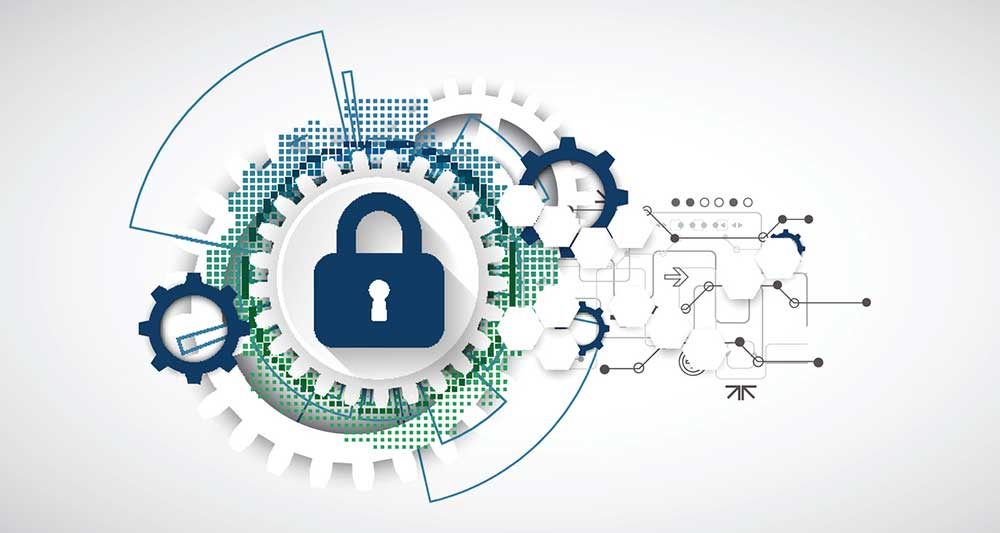
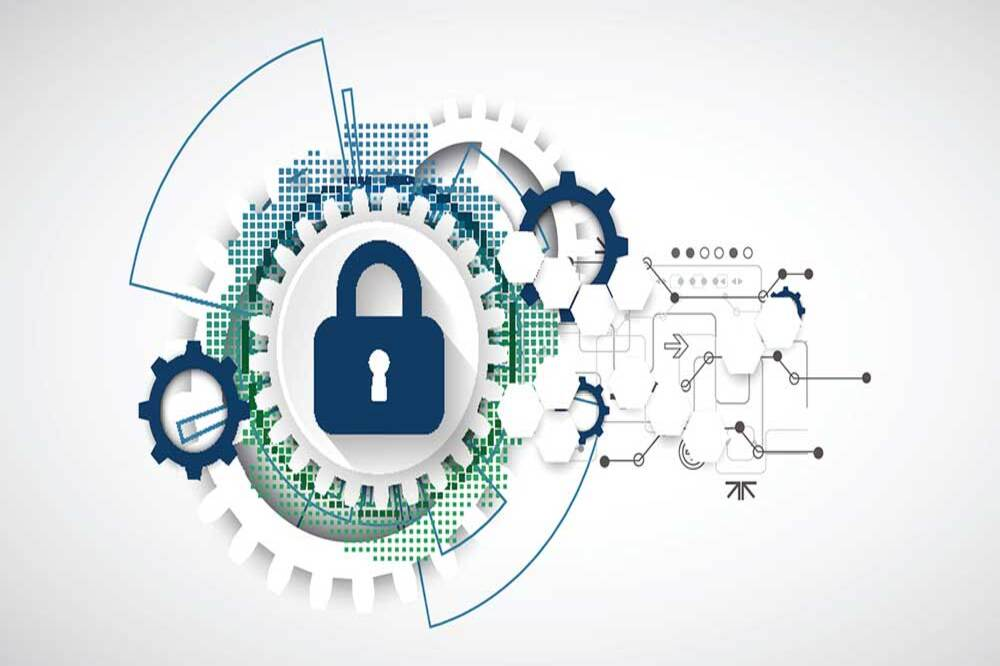
add BSI solution

diff --git a/src/pages/solution_page/SolutionPage.js b/src/pages/solution_page/SolutionPage.js
@@ -116,19 +116,19 @@ const industry = {
         data: [
             {
                 title: '静态应用安全测试',
-                img: 'https://raw.githubusercontent.com/LabZion/Official_WebSite/master/public/picture/SAST.png',
+                img: 'https://raw.githubusercontent.com/LabZion/Official_WebSite/master/public/picture/SAST.webp',
                 description: '源码安全扫描经过多年的发展，已经变得相当成熟，是广为人知的一个安全实践。\n' +
                     '源码安全扫描，也叫做静态应用安全测试，英文Static Application Security Test，简称SAST，指通过工具对源代码进行安全检查，发现源代码里面的安全问题。\n' +
                     'Thoughtwork安全团队遵循最佳实践的原则，一直在更新这个实践。一方面，得益于自动化，它可以让开发团队以更少的工作量付出，更快速地获取到关于源码安全质量的反馈，同时还降低了开发团队对于安全专业技能的要求。\n' +
                     '另一方面，由于源码安全扫描最早可以在开发人员编写代码的时候就进行，因此安全问题能够相对更早的暴露出来，从而降低问题修复成本。\n'
             },{
                 title: '依赖安全检查',
-                img: 'https://raw.githubusercontent.com/LabZion/Official_WebSite/master/public/picture/yilaijiancha.png',
+                img: 'https://raw.githubusercontent.com/LabZion/Official_WebSite/master/public/picture/yilaijiancha.jpg',
                 description: '现如今的应用程序里，有80%左右的源代码并不是开发团队自己写出来的，而是来自于应用程序所使用的第三方组件或者库。尽管我们可以采取很多措施，比如通过威胁建模、源码安全扫描等方法来确保团队自己开发的20%的源码的安全质量，但是对于剩下的这些不是由开发团队开发出来的、占比达到80%的依赖，它们如果存在安全漏洞，则同样可能导致整个应用程序受到影响。\n' +
                     'Thoughtwork安全团队在依赖安全检查方面进行了深入的探索，除了确保自己写出来的代码的安全质量，同时关注依赖的安全性，可以主动排查它们是否有安全漏洞，并及时进行处理。\n\n'
             },{
                 title: '动态应用安全测试\n',
-                img: 'https://raw.githubusercontent.com/LabZion/Official_WebSite/master/public/picture/DAST.png',
+                img: 'https://raw.githubusercontent.com/LabZion/Official_WebSite/master/public/picture/DAST.jpg',
                 description: '动态应用安全测试，英文全称叫做Dynamic Application Security Testing，简称DAST。它主要是用安全扫描工具来扮演黑客的角色，向目标应用程序发起各种各样的请求并观察应用程序返回的响应，并以此来判断应用程序是否存在安全漏洞。本质而言，这是一种黑盒测试方法。\n' +
                     '动态应用安全测试中的“动态”两个字，是指这个测试在执行过程中，目标应用程序是处于运行状态的。随着测试输入的变化，应用程序的输出也在动态的变化，所以就被叫做了动态应用安全测试\n' +
                     'Thoughtwork安全团队会在CI/CD 部署之后，随着持续部署的节奏，输出持续动态检查，确保每一次部署都通过主要的安全动态检查，实现安全左移。'
@@ -170,7 +170,7 @@ class SolutionPage extends Component {
                         <h5 style={{fontSize: '0.9rem',lineHeight: '2rem',marginTop:'2.5rem'}}>{item.description}</h5>
                     </Col>
                     <Col md={5} style={{padding: '1em', textAlign: 'right',paddingTop:'7.5em'}}>
-                        <Image src={item.img} style={{width: '100%'}} rounded/>
+                        <Image src={item.img} style={{width: '100%',height:'80%'}} rounded/>
                     </Col>
                 </Row>
             </Col>
